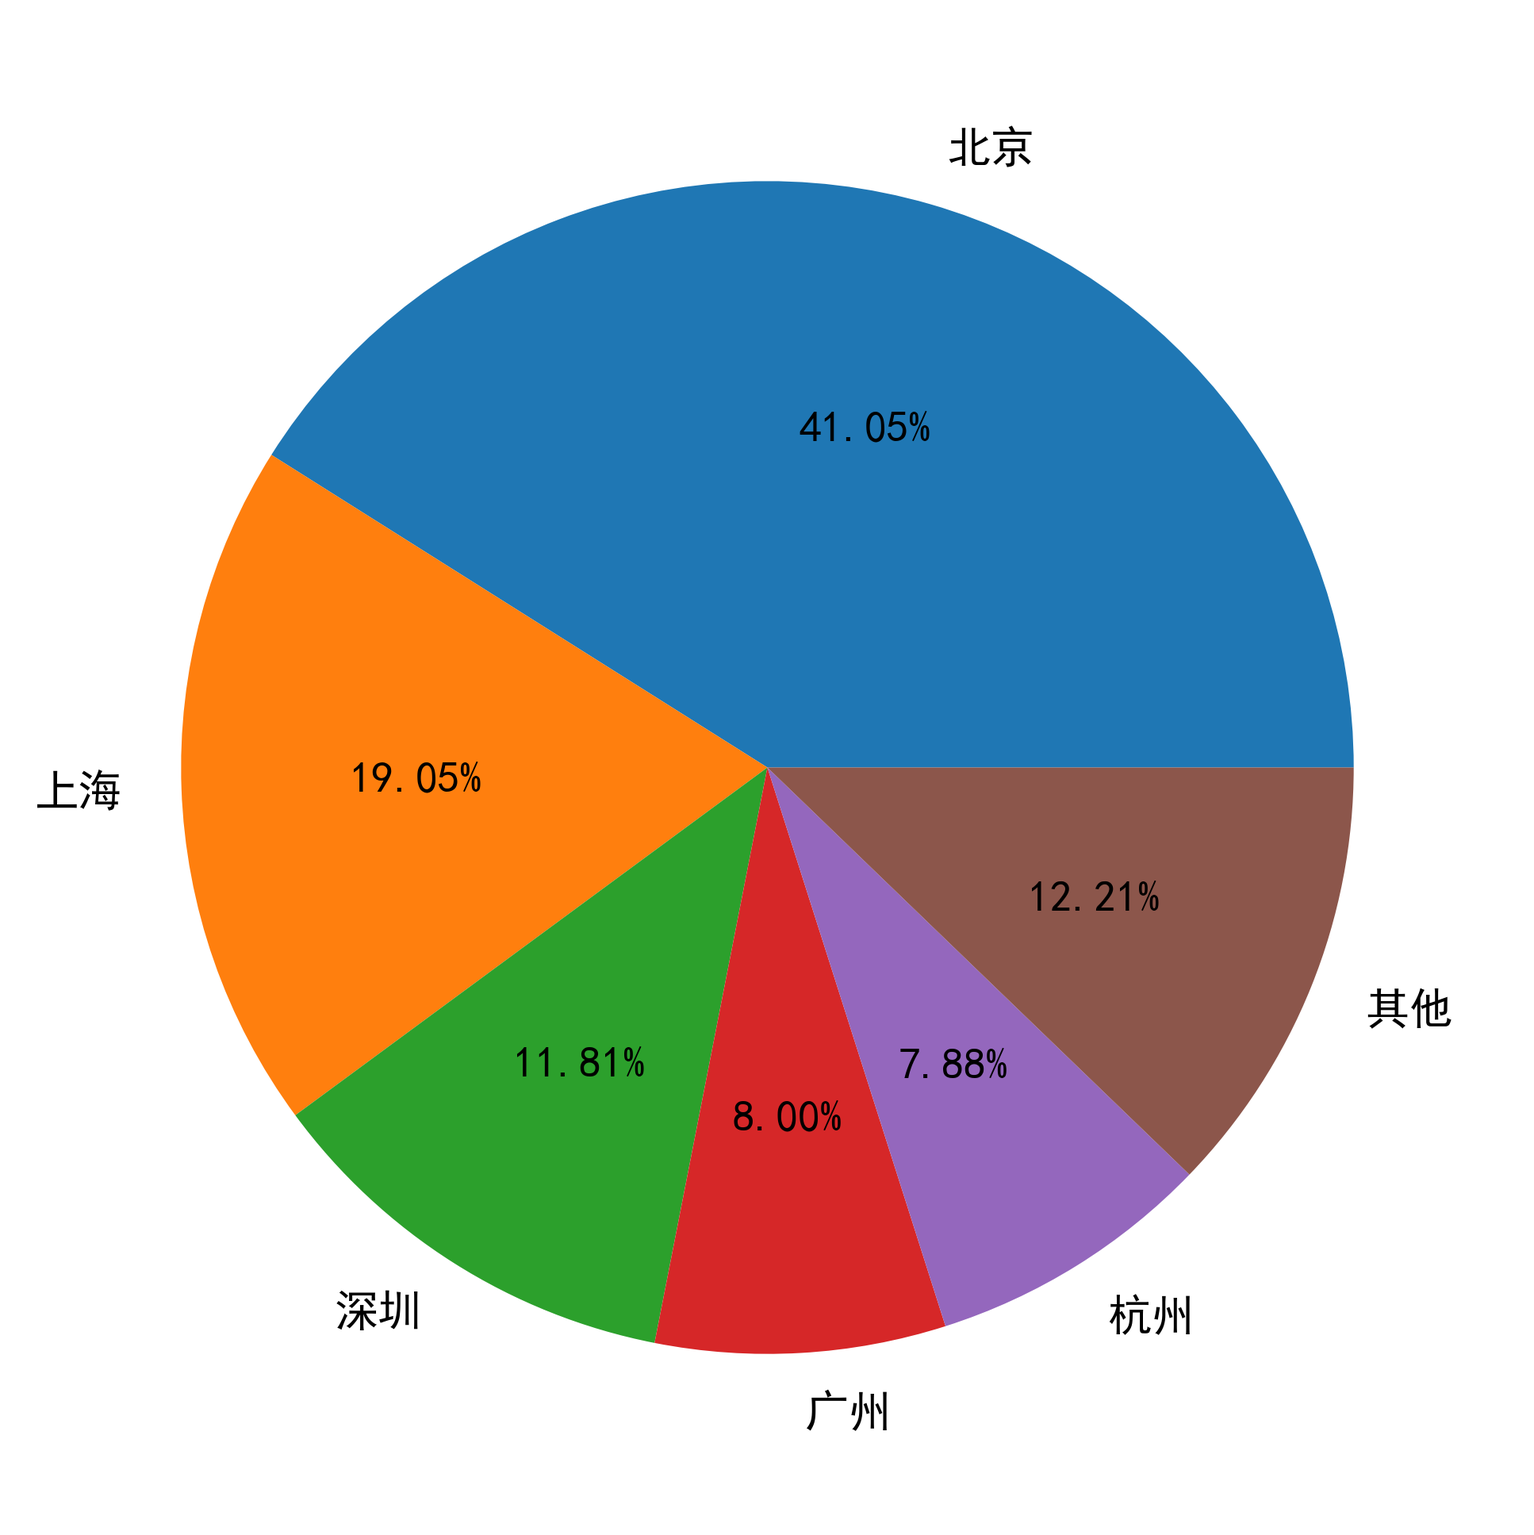
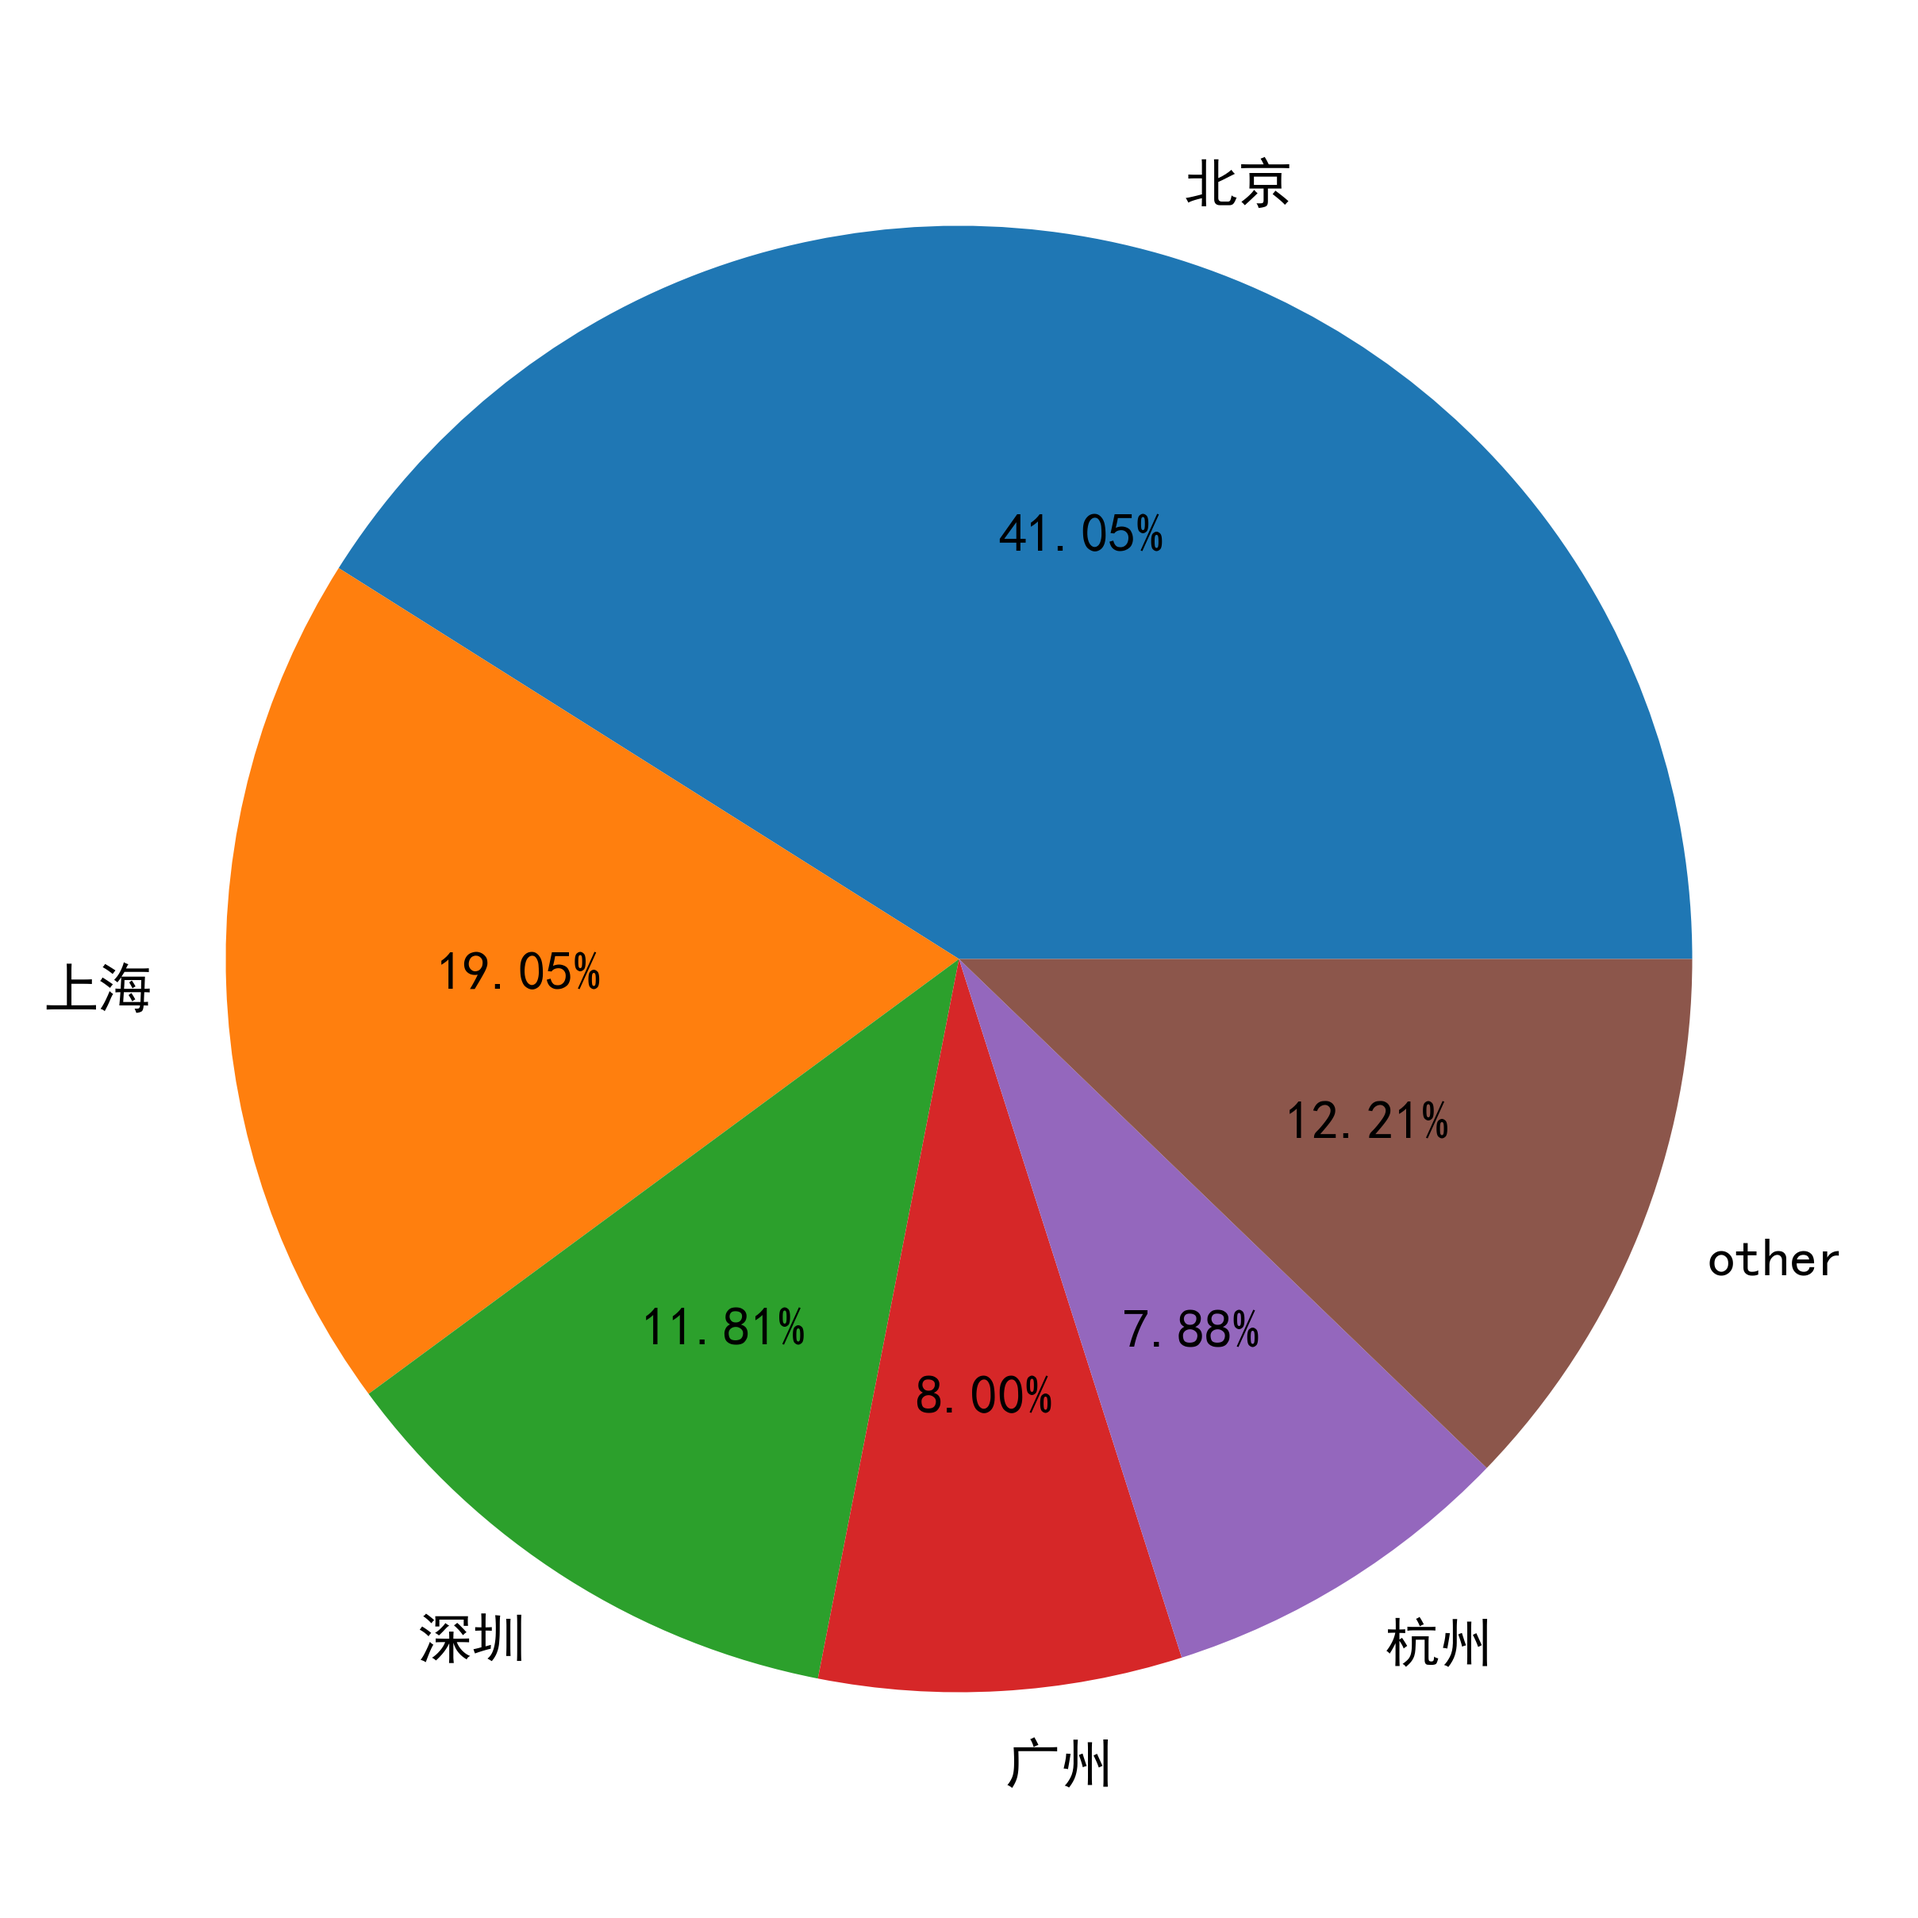
3.24

diff --git a/3.22拉勾网数据分析/testArea.py b/3.22拉勾网数据分析/testArea.py
@@ -2,7 +2,7 @@ import pandas as pd
 import numpy as np
 import matplotlib.pyplot as plt
 from wordcloud import WordCloud
-plt.rcParams['font.sans-serif'] = 'Simhei'
+# plt.rcParams['font.sans-serif'] = 'Simhei'
 
 
 
@@ -20,29 +20,59 @@ def get_city_distribute(city_series,pathname,num=0):
     if num>0:
         city_main = city_counts[city_counts>=num]
         city_other = city_counts[city_counts < num].sum()
+        # print(city_other)
         city_other=pd.Series(city_other,index=['其他'])
+        # print(city_other)
         city_counts=pd.concat([city_main,city_other])#统计频数
     city_rate=city_counts.div(city_counts.sum())*100
     plt.figure(figsize=(6,6))
     plt.pie(city_rate.values,labels=city_rate.index,autopct='%.2f%%')
-    plt.show()
+    
 
-def get_field_count(field_sries):
+def get_field_count(field_series):
     field_dict={}
-    print(field_sries.iloc[0])
 
-    # for i in range(len(field_sries)):
-    #     for field in field_sries.iloc[i]:
-    #         field=field.strip()
-    #         if field !='':
-    #             if field in field_dict:
-    #                 field_dict[field]+=1
-    #             else:
-    #                 field_dict[field]=1
-    #     print(field_dict)
-    # return field_dict
+    for i in range(len(field_series)):
+        for field in field_series.iloc[i]:
+            field=field.strip()
+            if field !='':
+                if field in field_dict:
+                    field_dict[field]+=1
+                else:
+                    field_dict[field]=1
+    # print(field_dict)
+    return field_dict
 
+def get_word_cloud(word_dict,pathname,max_font_size=3000):
+    plt.figure(figsize=(7,7))
+    background_img=plt.imread('/home/aallen/git/3.3数据分析/数据阶段/3.22拉勾网数据分析/data/timg.jpg')
+    wc=WordCloud(
+        background_color='yellow',
+        mask=background_img,
+        font_path='/home/aallen/git/3.3数据分析/数据阶段/3.22拉勾网数据分析/data/simhei.ttf',
+        colormap='hsv',
+        max_font_size=max_font_size,
+        max_words=500
 
+    )
+    wc.generate_from_frequencies(word_dict)
+    plt.imshow(wc)
+    plt.axis('off')
+    plt.savefig(pathname,dpi=600,bbox_inches='tight')
+    
+
+# def get_city_distribute(city_series,pathname,num=0):
+#     city_counts=city_series.value_counts()
+#     if num>0:
+#         city_main=city_counts[city_counts>=num]
+#         city_other=city_counts[city_counts<num].sum()
+#         city_other=pd.Series(city_other,index=['other'])
+#         print(city_other)
+#         city_counts=pd.concat([city_main,city_other])
+#     city_rate=city_counts.div(city_counts.sum())*100
+#     plt.figure(figsize=(6,6))
+#     plt.pie(city_rate.values,labels=city_rate.index,autopct='%.2f%%')
+#     plt.savefig(pathname,dpi=500,bbox_inches='tight')
 
 
 
@@ -56,6 +86,10 @@ def main():
     # print(data['industryField'].unique())
     data['field']=data['industryField'].str.strip().str.replace('、',',').str.replace(' ',',').str.split(',')
     field_dict=get_field_count(data['field'])##
+
+    get_word_cloud(field_dict,'/home/aallen/git/3.3数据分析/数据阶段/3.22拉勾网数据分析/image/行业词云test.png')
+    get_city_distribute(data['workYear'],pathname='/home/aallen/git/3.3数据分析/数据阶段/3.22拉勾网数据分析/image/test工作年限.png')
+
 
 
 

diff --git a/3.22拉勾网数据分析/testSalary.py b/3.22拉勾网数据分析/testSalary.py
@@ -1,0 +1,65 @@
+from AreaAnalysis import *
+
+def get_salary(salary_str):
+
+    saraly_li=salary_str.strip().replace('k','').replace('K','').split('-')
+    area=int(saraly_li[1])-int(saraly_li[0])
+    return int(saraly_li[0])+0.5*area
+
+
+def get_saraly_distribute(salary_series):
+    bins=[0,9,15,25,29,float('inf')]
+    plt.figure(figsize=(8,5))
+    pd.cut(salary_series.values,bins=bins).value_counts().plot(kind='bar')
+    plt.xticks(rotation=30)
+    plt.xlabel('薪酬区间（K/月）',fontsize=12)
+    plt.savefig('/home/aallen/git/3.3数据分析/数据阶段/3.22拉勾网数据分析/image/薪酬分步test.png',dpi=400,bbox_inches='tight')
+
+
+def get_city_salary_distribute(dis):
+    cities=['北京','上海','深圳','广州','杭州','成都']
+    # print(dis)
+    city_salary=[]
+    for city in cities:
+        city_salary.append(dis[dis['city']==city]['money'])
+    plt.figure(figsize=(8,5))
+    plt.boxplot(city_salary,labels=cities)
+    plt.xticks(fontsize=13,rotation=30)
+    plt.ylabel('薪酬：K/月')
+    # plt.show()
+    plt.savefig('/home/aallen/git/3.3数据分析/数据阶段/3.22拉勾网数据分析/image/城市薪酬分布test.png',dpi=500)
+
+
+
+def get_education_salary_dis(data,pathname,bywhat='education'):
+    a=data.groupby(by=bywhat)['money'].apply(lambda x:x.values)
+    aa=data.groupby(by=bywhat)['money']
+    b=data.groupby(by=bywhat)['money'].median().sort_values()
+    aaa=pd.Series(a,index=b.index)
+    
+    plt.figure(figsize=(8,7))
+    plt.boxplot(aaa,labels=aaa.index)
+    plt.xticks(fontsize=13)
+    plt.savefig(pathname,dpi=600)
+
+
+
+
+
+
+
+def main():
+    data=pd.read_csv('/home/aallen/git/3.3数据分析/数据阶段/3.22拉勾网数据分析/data/LagouPostion.csv',encoding='gb18030')
+    data=data.drop_duplicates()
+    data=data[data['jobNature']=='全职']
+    data['money']=data['salary'].apply(get_salary)
+    get_saraly_distribute(data['money'])
+    get_city_salary_distribute(data[['money','city']])
+
+    get_education_salary_dis(data[['education','money']],'/home/aallen/git/3.3数据分析/数据阶段/3.22拉勾网数据分析/image/教育背景薪酬test1.png')
+
+
+
+
+if __name__=='__main__':
+    main()

diff --git a/3.22拉勾网数据分析/AreaAnalysis.py b/3.22拉勾网数据分析/AreaAnalysis.py
@@ -51,7 +51,7 @@ def get_word_cloud(word_dict,pathname,max_font_size=3000):
     :return:
     '''
     plt.figure(figsize=(6,6))
-    backgroud_img = plt.imread('./data/timg.jpg')#读取背景图
+    backgroud_img = plt.imread('/home/aallen/git/3.3数据分析/数据阶段/3.22拉勾网数据分析/data/timg.jpg')#读取背景图
     #声明词云对象
     wc = WordCloud(
         background_color='white',#背景色
@@ -74,9 +74,9 @@ def main():
     get_city_distribute(data['city'],'/home/aallen/git/3.3数据分析/数据阶段/3.22拉勾网数据分析/image/cityneed.png',num=100)#统计城市的频数和频率，并绘图
     # print(data['industryField'].unique())
     data['field']=data['industryField'].str.strip().str.replace('、',',').str.replace(' ',',').str.split(',')
-    
+
     field_dict = get_field_count(data['field'])#统计行业频数
-    get_word_cloud(field_dict,'./image/行业词云.png')#绘制行业词云图
+    get_word_cloud(field_dict,'./image/行业词云1.png')#绘制行业词云图
     #不同工作年限的需求分布
     get_city_distribute(data['workYear'],pathname='./image/工作年限.png')
 

diff --git a/3.22拉勾网数据分析/SalaryAnalysis.py b/3.22拉勾网数据分析/SalaryAnalysis.py
@@ -7,6 +7,7 @@ def get_salary(saraly_str):
     :return:
     '''
     saraly_li=saraly_str.strip().replace('k','').replace('K','').split('-')
+    # print(saraly_str)
     area = int(saraly_li[1])-int(saraly_li[0])
     return int(saraly_li[0])+0.5*area
 
@@ -64,7 +65,7 @@ def get_education_salary_distribute(df,pathname,by='education'):
     plt.savefig(pathname,dpi=400)
 
 def main():
-    data = pd.read_csv('./data/LagouPostion.csv', encoding='gb18030')
+    data = pd.read_csv('/home/aallen/git/3.3数据分析/数据阶段/3.22拉勾网数据分析/data/LagouPostion.csv',encoding='gb18030')
     data = data.drop_duplicates()  # 去重
     data = data[data['jobNature'] == '全职']  ##提取‘全职’的招聘信息
     data['money']=data['salary'].apply(get_salary)#提取工资信息
